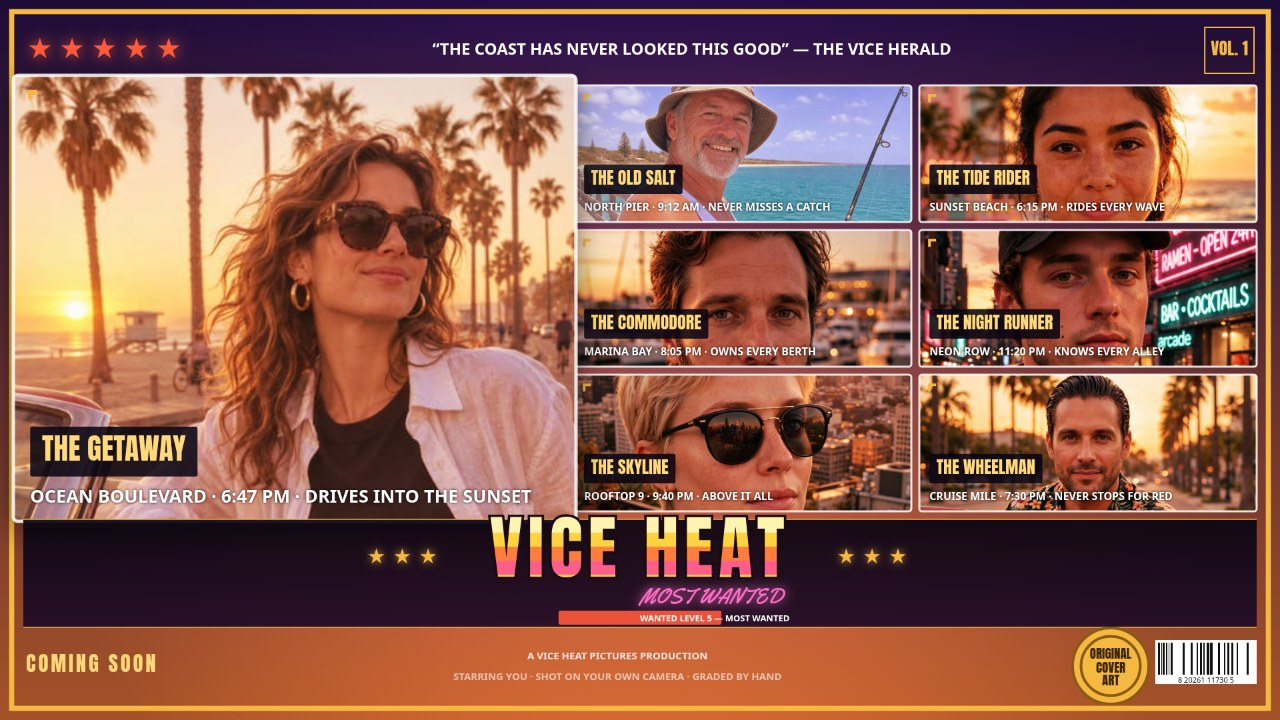
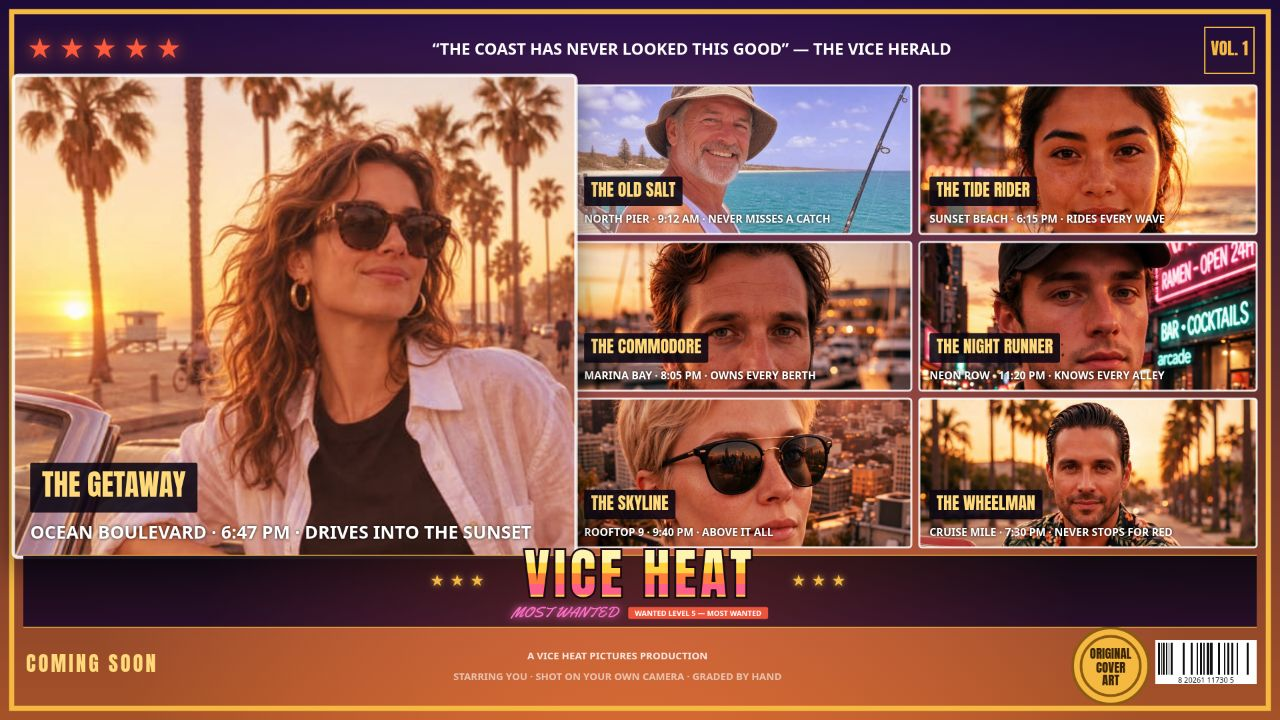
Fix 2 (blind test R2): slimmer title band + tagline/chip one row, remove panel corner ticks

diff --git a/app/app.js b/app/app.js
@@ -218,7 +218,7 @@ function computeLayout(W, H, count) {
   const m = Math.round(W * 0.018);
   const gap = Math.max(4, Math.round(W * 0.006));
   const topH = Math.round(H * 0.075);
-  const titleH = Math.round(H * 0.15);
+  const titleH = Math.round(H * 0.10);
   const footH = Math.round(H * 0.085);
   const panelsY = m + topH + gap;
   const panelsH = H - m * 2 - topH - titleH - footH - gap * 3;
@@ -295,6 +295,12 @@ function stripeGradient(c, x0, y0, x1, y1, colors) {
   return g;
 }
 
+// Hex colour to rgba(), for the warm glow in the title band.
+function hexA(hex, a) {
+  const n = parseInt(hex.slice(1), 16);
+  return `rgba(${(n >> 16) & 255},${(n >> 8) & 255},${n & 255},${a})`;
+}
+
 function drawCoverPhoto(c, photo, rect, panel) {
   const img = photo.img;
   const iw = img.naturalWidth, ih = img.naturalHeight;
@@ -319,7 +325,6 @@ function drawCoverPhoto(c, photo, rect, panel) {
 }
 
 function drawPanelChrome(c, rect, panel, index) {
-  const g = grade();
   const r = Math.max(3, rect.w * 0.008);
   c.save();
   roundRectPath(c, rect.x, rect.y, rect.w, rect.h, r);
@@ -357,14 +362,6 @@ function drawPanelChrome(c, rect, panel, index) {
   const story = `${panel.place} · ${panel.time} · ${panel.boast}`;
   c.fillText(story, rect.x + pad, rect.y + rect.h - pad - storySize * 0.4, rect.w - pad * 2);
   c.shadowBlur = 0;
-  // Small gold corner tick, the poster's signature detail.
-  c.strokeStyle = g.frame;
-  c.lineWidth = Math.max(2, rect.w * 0.008);
-  c.beginPath();
-  c.moveTo(rect.x + pad, rect.y + pad + 10);
-  c.lineTo(rect.x + pad, rect.y + pad);
-  c.lineTo(rect.x + pad + 10, rect.y + pad);
-  c.stroke();
 }
 
 function drawStars(c, x, y, size, filled) {
@@ -513,6 +510,13 @@ function renderPoster(c, W, H) {
   bandGrad.addColorStop(1, "rgba(30,10,40,0.92)");
   c.fillStyle = bandGrad;
   c.fillRect(L.m, bandY, W - L.m * 2, L.titleH);
+  // Warm glow behind the title, in the grade's tint, so the shorter band
+  // reads as sunset, not as an empty dark slab.
+  const glow = c.createRadialGradient(W / 2, bandY + L.titleH * 0.42, 0, W / 2, bandY + L.titleH * 0.42, W * 0.34);
+  glow.addColorStop(0, hexA(g.tint, 0.22));
+  glow.addColorStop(1, hexA(g.tint, 0));
+  c.fillStyle = glow;
+  c.fillRect(L.m, bandY, W - L.m * 2, L.titleH);
   c.strokeStyle = "rgba(245,185,66,0.7)";
   c.lineWidth = 2;
   c.beginPath();
@@ -521,11 +525,11 @@ function renderPoster(c, W, H) {
   c.stroke();
 
   const titleMaxW = W - L.m * 2 - 40;
-  const titleSize = fitFont(c, state.title, "Anton", titleMaxW, Math.round(L.titleH * 0.54) * titleScale());
+  const titleSize = fitFont(c, state.title, "Anton", titleMaxW, Math.round(L.titleH * 0.62) * titleScale());
   c.font = `${titleSize}px "Anton"`;
   const tracking = Math.max(1, titleSize * 0.08);
   if ("letterSpacing" in c) c.letterSpacing = `${tracking}px`;
-  const titleY = bandY + L.titleH * 0.35;
+  const titleY = bandY + L.titleH * 0.36;
   const grad = stripeGradient(c, 0, titleY - titleSize * 0.55, 0, titleY + titleSize * 0.45, g.title);
   c.textAlign = "center";
   c.textBaseline = "middle";
@@ -554,26 +558,35 @@ function renderPoster(c, W, H) {
   c.shadowBlur = 0;
   if ("letterSpacing" in c) c.letterSpacing = "0px";
 
-  // Neon script tagline under the title, glowing. It sits clear of the
-  // wanted chip, which lives at the very bottom of the band.
-  const tagSize = Math.max(14, Math.round(L.titleH * 0.19));
+  // Neon script tagline and the wanted chip share one row under the title,
+  // centred as a group, so the shorter band stays full: the chip still
+  // names the wanted level, in words.
+  const chipText = `WANTED LEVEL ${state.wanted} — ${LEVEL_WORDS[state.wanted]}`;
+  const chipH = Math.max(12, Math.round(L.titleH * 0.17));
+  const chipFont = Math.max(10, Math.round(chipH * 0.62));
+  c.font = `700 ${chipFont}px system-ui, sans-serif`;
+  const chipW = c.measureText(chipText).width + 20;
+  const tagSize = Math.max(14, Math.round(L.titleH * 0.21));
   c.font = `${tagSize}px "Yellowtail"`;
+  const tagW = c.measureText(state.tagline).width;
+  const rowGap = Math.max(12, Math.round(L.titleH * 0.14));
+  const rowW = tagW + rowGap + chipW;
+  const rowY = bandY + L.titleH * 0.80;
+  const rowX = W / 2 - rowW / 2;
+  c.textAlign = "left";
+  c.textBaseline = "middle";
   c.fillStyle = g.tagline;
   c.shadowColor = g.tagline;
   c.shadowBlur = Math.max(8, tagSize * 0.5);
-  c.fillText(state.tagline, W / 2, bandY + L.titleH * 0.72);
+  c.fillText(state.tagline, rowX, rowY);
   c.shadowBlur = 0;
-
-  // Wanted chip in the title band: the level, in words.
-  const chipText = `WANTED LEVEL ${state.wanted} — ${LEVEL_WORDS[state.wanted]}`;
-  const chipH = Math.max(12, Math.round(L.titleH * 0.13));
-  c.font = `700 ${Math.max(10, Math.round(chipH * 0.62))}px system-ui, sans-serif`;
-  const chipW = c.measureText(chipText).width + 20;
   c.fillStyle = "rgba(255,90,60,0.9)";
-  roundRectPath(c, W / 2 - chipW / 2, bandY + L.titleH - chipH - 4, chipW, chipH, 3);
+  roundRectPath(c, rowX + tagW + rowGap, rowY - chipH / 2, chipW, chipH, 3);
   c.fill();
+  c.font = `700 ${chipFont}px system-ui, sans-serif`;
   c.fillStyle = "#ffffff";
-  c.fillText(chipText, W / 2, bandY + L.titleH - chipH / 2 - 2);
+  c.textAlign = "center";
+  c.fillText(chipText, rowX + tagW + rowGap + chipW / 2, rowY + 1);
 
   // Footer: COMING SOON, billing block, barcode, gold seal. The billing
   // lines shrink to fit the space between COMING SOON and the seal/barcode.

diff --git a/BUILD-LOG.md b/BUILD-LOG.md
@@ -146,3 +146,53 @@ Dua kelemahan unanim evaluator, dan hanya dua ini yang diperbaiki:
 
 ### Tidak dilakukan (milik Kimo main)
 - Tidak ada submit, kuota, README/About, klaim. Recording STRICT masih jalan.
+
+## Fix 2 — polish band judul (20 Nov ~19:30 WIB, fixer session 2)
+
+Blind test round 2 LULUS (kita 57,00 vs Top 5 57,33). Satu kelemahan sisa,
+disebut ketiga evaluator: band judul gelap di bawah grid foto terlalu
+besar/kosong — sekitar sepertiga poster jadi ruang navy kosong. Hanya ini
+yang diperbaiki (foto, role tag, grade, editor tidak disentuh):
+
+### 1. Band judul diperkecil + diisi bermakna
+- titleH 0,15H -> 0,10H (band menyusut sepertiga); ruangnya kembali ke grid
+  foto/hero — panel tumbuh ~8% lebih tinggi, wajah di panel kecil ikut
+  membesar. Total area gelap non-foto (top strip + band + footer) turun dari
+  ~31% ke ~26% tinggi poster.
+- Judul tetap besar: faktor 0,54 -> 0,62 dari titleH (di 1080p: ~80 px,
+  tetap teks terbesar di poster), posisi 0,36 — tidak menyentuh tepi band,
+  tidak menutupi wajah.
+- Tagline + chip kini SATU baris di bawah judul, terpusat sebagai grup
+  (tagline neon "MOST WANTED" + chip merah "WANTED LEVEL 5 — MOST WANTED"),
+  bukan dua baris bertumpuk — band yang lebih pendek tetap terisi penuh.
+  Bintang emas 3+3 di tiap sisi judul dipertahankan.
+- Band dihangatkan: radial glow lembut warna tint grade di belakang judul
+  (helper baru hexA), jadi band terbaca sebagai sunset, bukan slab navy
+  kosong. Semua furniture dipertahankan (kutipan, segel, billing, barcode,
+  VOL. 1, COMING SOON).
+
+### 2. Artefak sudut panel dibersihkan
+- Penyebab ketemu: "gold corner tick" di drawPanelChrome — detail sengaja
+  yang digambar di sudut kiri-atas SETIAP panel; di ukuran export ia terbaca
+  sebagai artefak kuning kecil (dilaporkan evaluator round 2). Dihapus
+  total; panel sudah punya border chrome putih. `const g = grade();` yang
+  hanya dipakai tick itu ikut dihapus.
+
+### Verifikasi (semua PASS)
+- node --check app/app.js OK; tidak ada referensi network baru di kode app
+  (hanya URL di teks lisensi OFL, seperti sebelumnya).
+- 4 screenshot di-render ulang via headless Chromium (cara yang sama seperti
+  v1/Fix 1, server lokal port 8941, dimatikan via PID setelah selesai):
+  01-cover 1280x720 175.678 B; 02-editor 1280x800 178.276 B; 03-square
+  1024x1024 202.504 B; 04-portrait 1024x1280 233.909 B (q80) — semua
+  ≤256 KiB, sisi panjang ≤1280, sisi pendek ≥480. Keempatnya dilihat:
+  band judul terisi (judul + bintang + tagline + chip satu baris), tidak ada
+  teks terpotong (zoom 2x pada band landscape + square), semua garis
+  micro-story terbaca penuh, wajah hero utuh di ketiga layout cover, corner
+  tick hilang dari semua panel.
+- MAKEFUN_OUTPUT_DIR=/tmp/out-fix2a dan /tmp/out-fix2b -> byte-identical
+  (diff -r bersih); dossier.json schema makefun/dossier/v1, 4 images,
+  cover 0.
+
+### Tidak dilakukan (milik Kimo main)
+- Tidak ada submit, kuota, README/About, klaim. Recording STRICT masih jalan.
